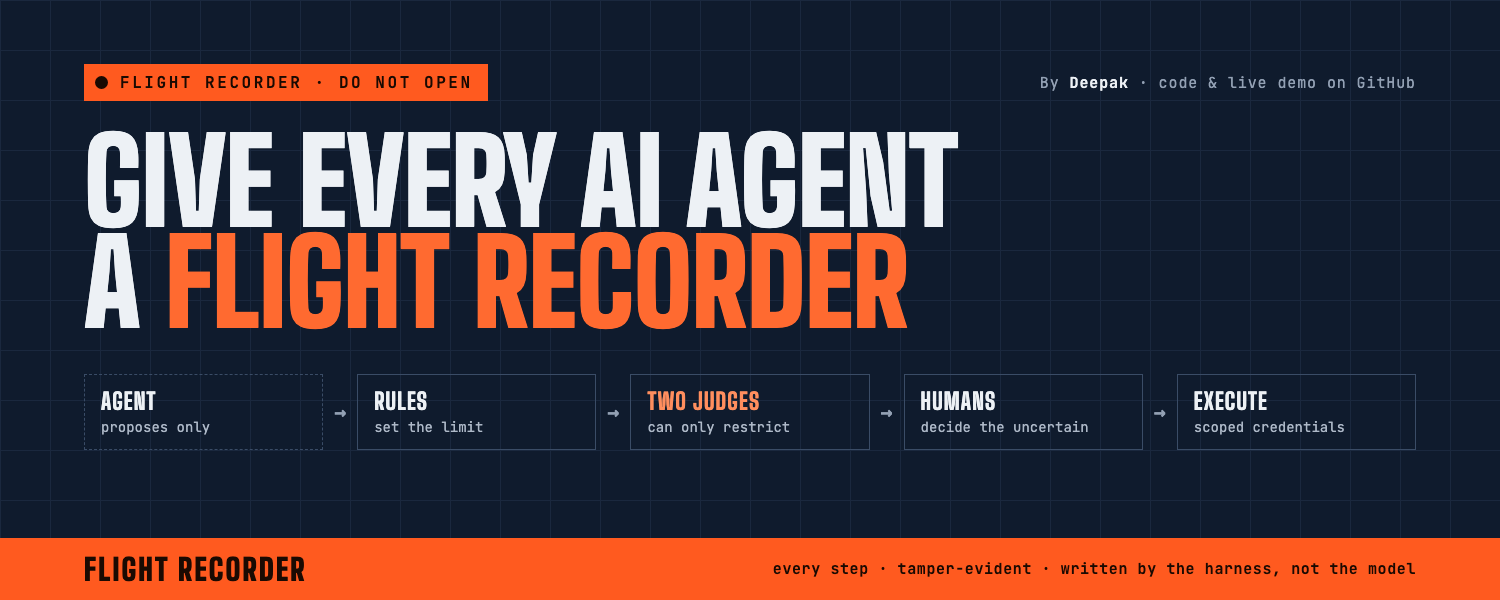
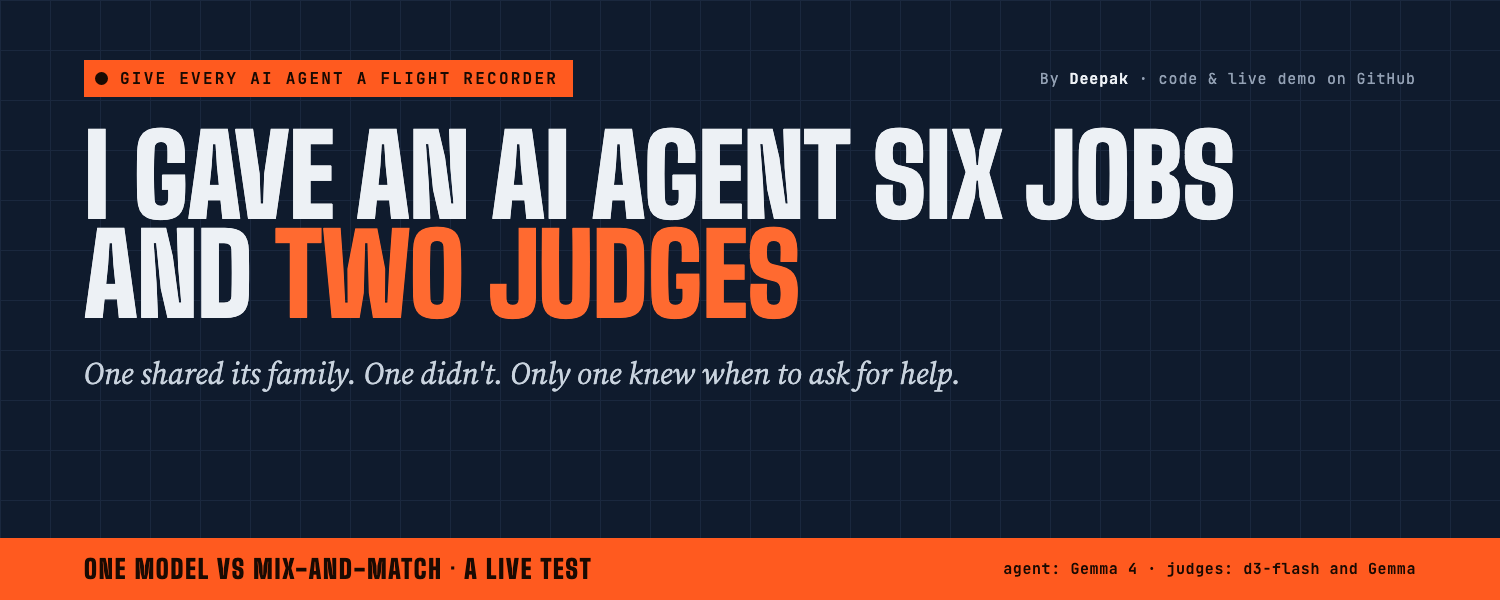
New headline: I gave an AI agent six jobs and two judges
Article hero, cover image and README now lead with the experiment; 'Give
every AI agent a flight recorder' moves to the tag above the title.

diff --git a/article.html b/article.html
@@ -90,7 +90,7 @@ a:focus-visible, button:focus-visible { outline: 2px solid var(--orange); outlin
 }
 h1 {
   font-family: var(--display); font-weight: 900; text-transform: uppercase;
-  font-size: clamp(3rem, 10.5vw, 7.4rem); line-height: .86; letter-spacing: -.01em;
+  font-size: clamp(2.6rem, 7.6vw, 5.9rem); line-height: .88; letter-spacing: -.01em;
   margin: 1.4rem 0 1.4rem; text-wrap: balance;
 }
 h1 .o { color: var(--orange-ink); }
@@ -400,9 +400,9 @@ ol.trace li b { color: var(--ink); }
   </nav>
   <div class="flow">
   <header class="hero col">
-    <span class="tag">Flight recorder · Do not open</span>
-    <h1>Give every AI agent a <span class="o">flight recorder</span></h1>
-    <p class="dek">Letting one model write the code, check it and audit it is convenient. It's also one set of blind spots doing three jobs. I built an alternative: a small decision model as an independent referee, hard rules around it, and a flight recorder no model can touch. Then I let a real agent loose on it.</p>
+    <span class="tag">Give every AI agent a flight recorder</span>
+    <h1>I gave an AI agent six jobs and <span class="o">two judges</span></h1>
+    <p class="dek"><strong>One shared its family. One didn't. Only one knew when to ask for help.</strong> A live test of one model doing everything versus a mix of models, with hard rules, an independent judge, and a flight recorder no model can touch.</p>
     <div class="byline"><span>Deepak</span><span>October 2026</span><span>14 min read</span><a href="https://github.com/deepirex/agent-flight-recorder" target="_blank" rel="noopener">Code and demo on GitHub ↗</a></div>
   </header>
 

diff --git a/README.md b/README.md
@@ -1,6 +1,8 @@
 # Agent Flight Recorder
 
-**The model proposes. The harness decides. The recorder remembers.**
+**I gave an AI agent six jobs and two judges.** One shared its family. One didn't. Only one knew when to ask for help.
+
+*The model proposes. The harness decides. The recorder remembers.*
 
 Letting one model family write the code, check it and audit it means one set of blind spots doing three jobs. This is
 a working alternative: an LLM agent does the work, a small decision model from a different family checks every
